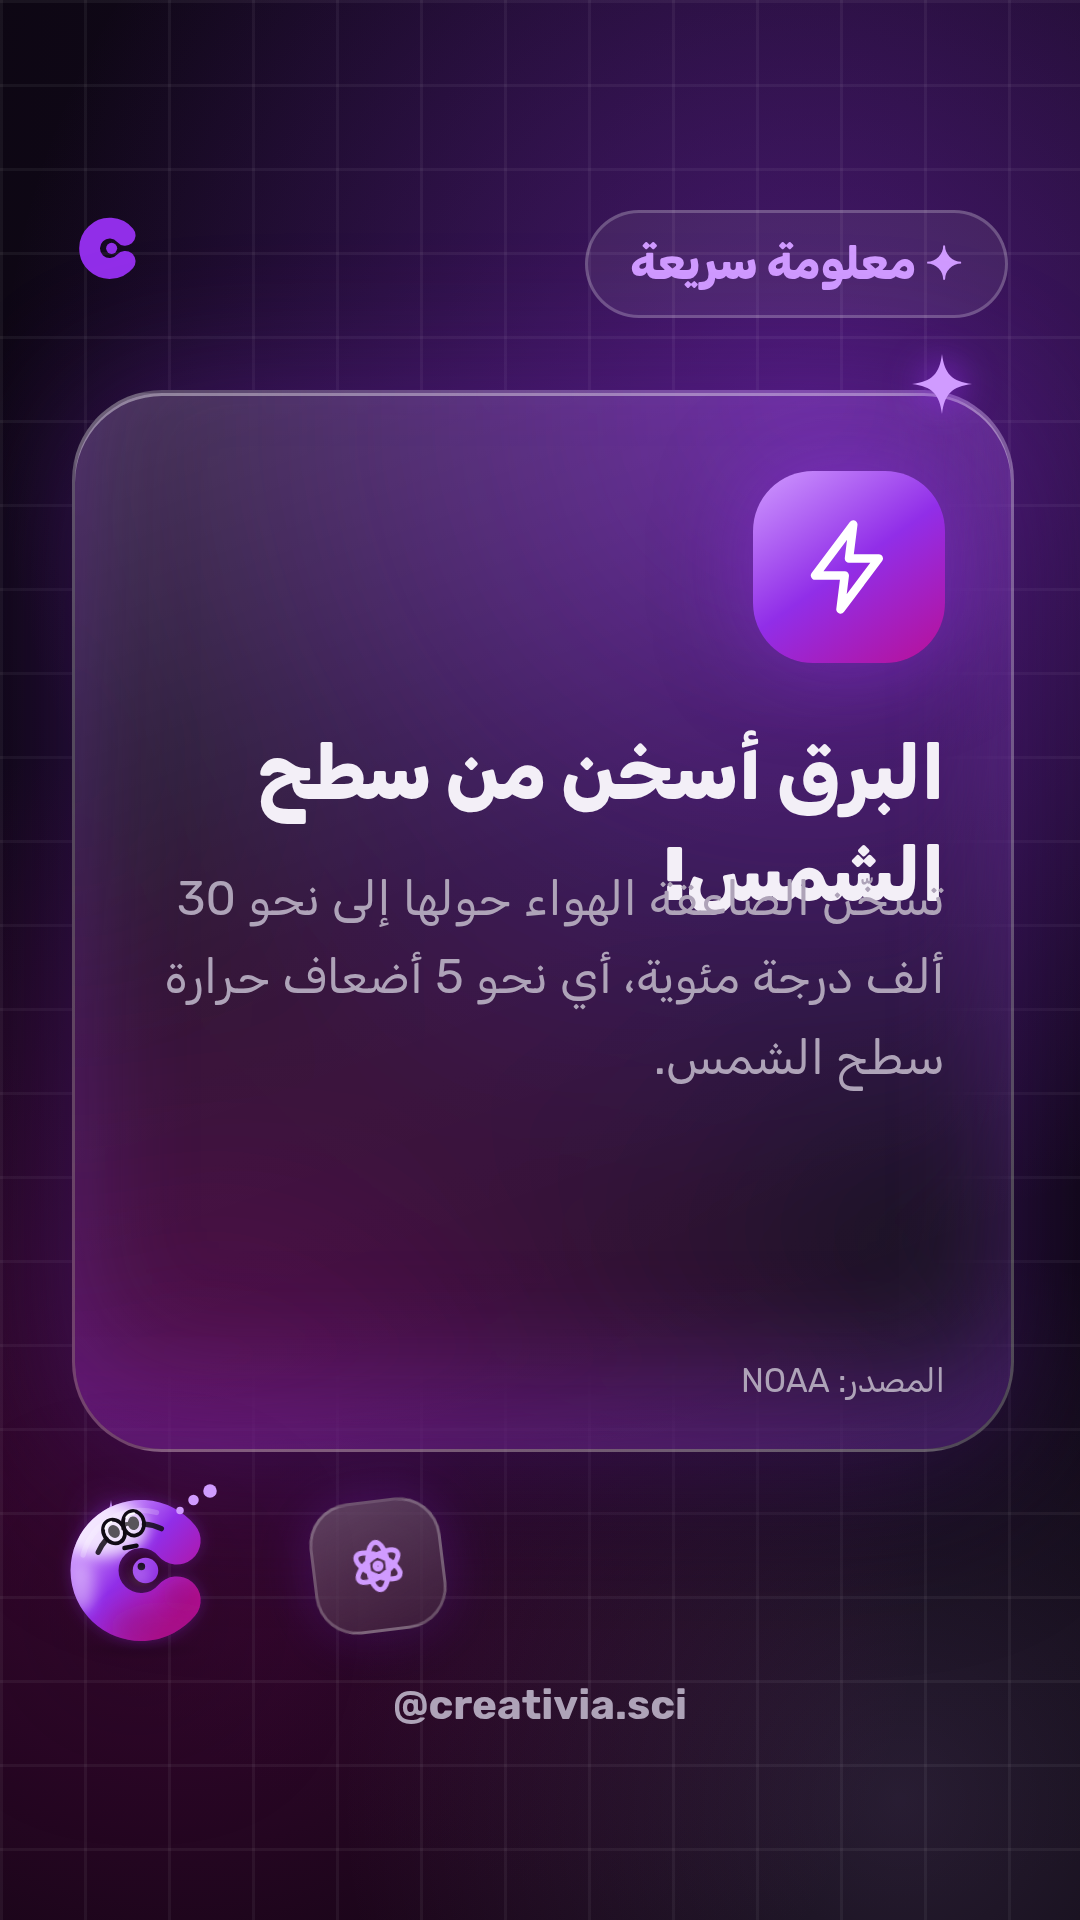
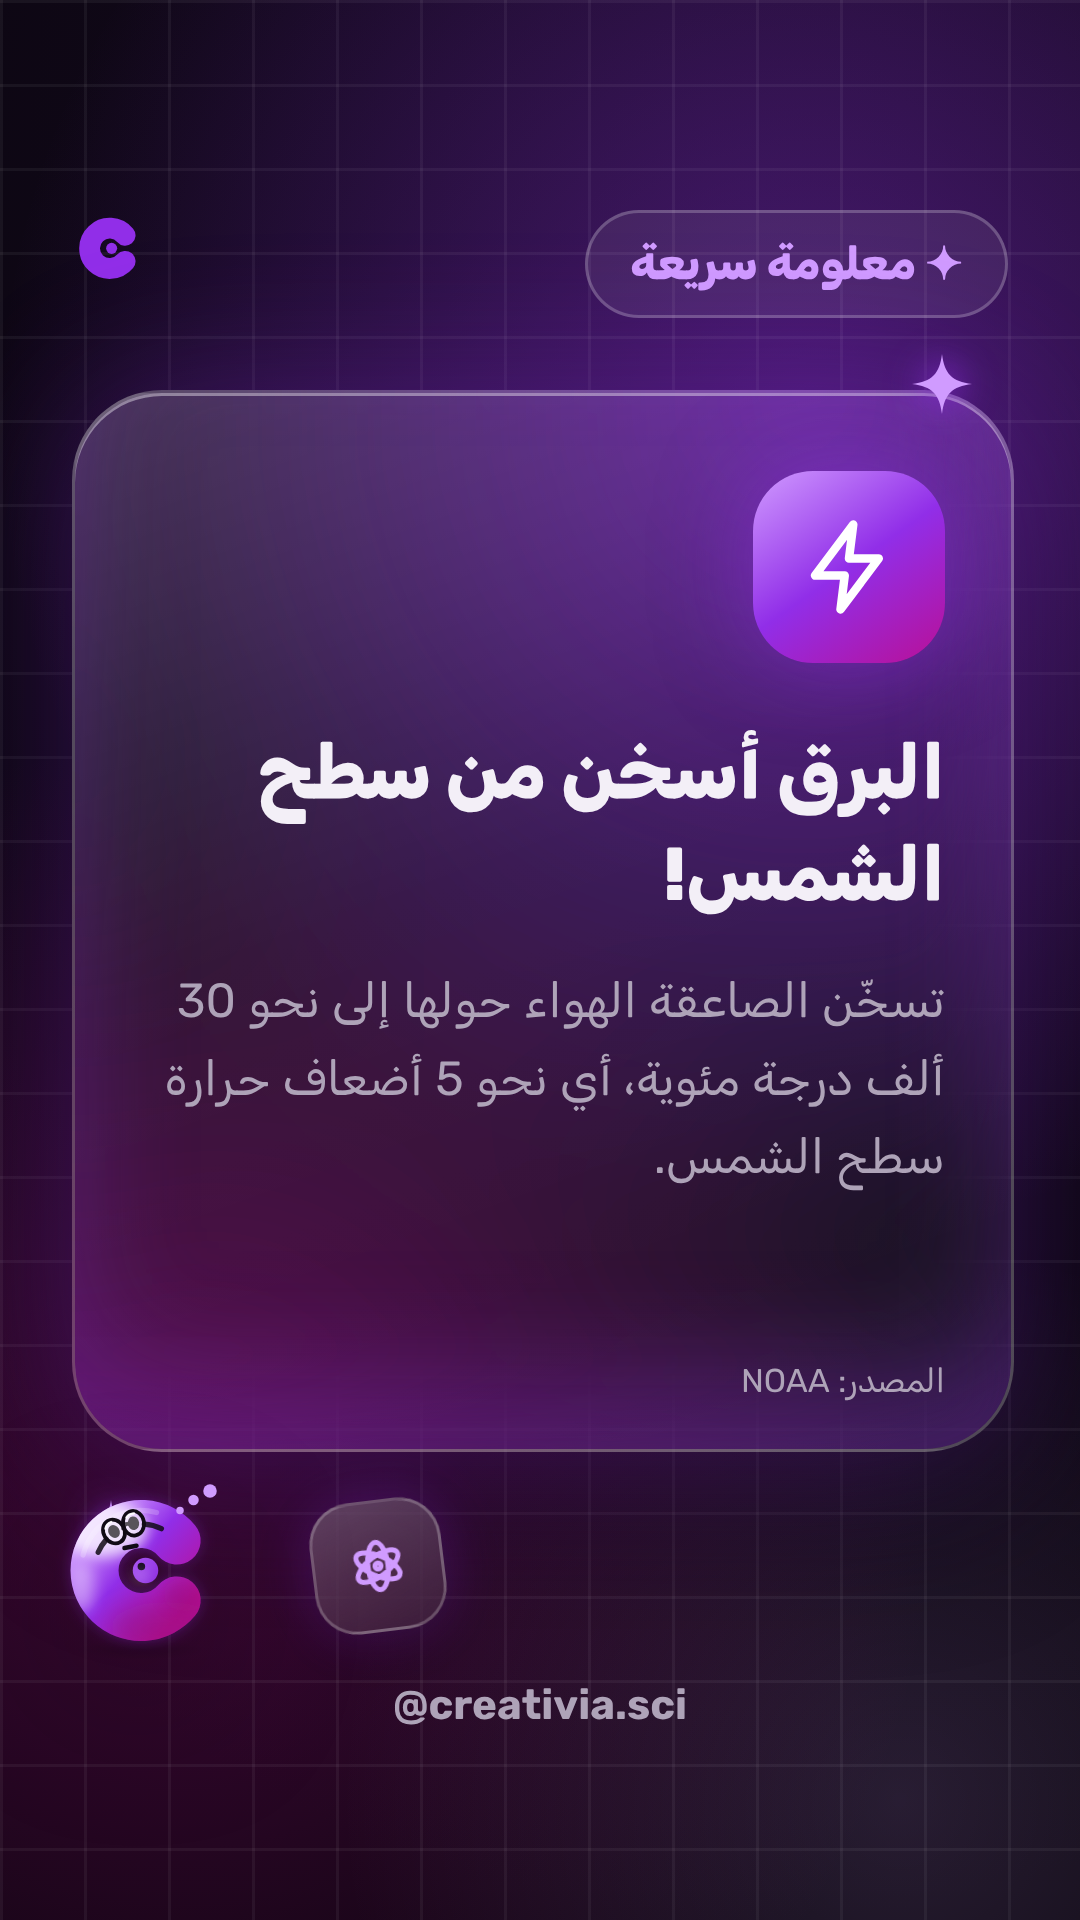
Story fact: title and body in one column (no overlap); re-render brain-energy stories
Claude-Session: https://claude.ai/code/session_01JxQUdRwBsaT7Q6E2sY5jv1

diff --git a/engine/story.js b/engine/story.js
@@ -74,8 +74,8 @@ function frame(C, body, k, noHandle) {
       `<div style="position:absolute;right:24px;top:70px;display:flex;align-items:center;gap:8px;padding:8px 14px;border-radius:999px;background:${C.glass};border:1.5px solid ${C.rim};color:${C.ink};font-size:15px;font-weight:800">✦ ${esc(f.tag || 'معلومة سريعة')}</div>`
       + glass(C, 24, 130, 312, 352, 30,
         (img ? `<img src="${img}" style="position:absolute;left:12px;right:12px;top:12px;width:288px;height:${ih}px;border-radius:20px;object-fit:cover">` : `<div style="position:absolute;right:22px;top:26px;width:64px;height:64px;border-radius:20px;background:linear-gradient(145deg,#D09BFF,#912EE8 50%,#B91097);box-shadow:0 0 30px rgba(145,46,232,0.5);display:flex;align-items:center;justify-content:center;font-size:34px;color:#100B14;font-weight:800">${ICONS[f.icon] ? icon(f.icon, '#FFFFFF', 34) : esc(f.icon || '!')}</div>`)
-        + `<div style="position:absolute;right:22px;left:22px;top:${img ? ih + 30 : 110}px;font-size:${f.size || 25}px;font-weight:800;line-height:1.35;color:${C.text}">${esc(f.title)}</div>`
-        + `<div style="position:absolute;right:22px;left:22px;top:${img ? ih + 30 : 110}px;margin-top:${(f.size || 25) * 1.35 * (f.lines || 2) + 12}px;font-size:16px;line-height:1.65;color:${C.muted}">${esc(f.body)}</div>`
+        // title and body share one column, so a title that wraps pushes the body down (never over it)
+        + `<div style="position:absolute;right:22px;left:22px;top:${img ? ih + 30 : 110}px;display:flex;flex-direction:column;gap:12px"><div style="font-size:${f.size || 25}px;font-weight:800;line-height:1.35;color:${C.text}">${esc(f.title)}</div><div style="font-size:16px;line-height:1.65;color:${C.muted}">${esc(f.body)}</div></div>`
         + (f.credit ? `<div style="position:absolute;right:22px;left:22px;bottom:16px;font-size:11px;color:${C.muted}">${esc(f.credit)}</div>` : ''))
       + star(C, 304, 118, 20) + star(C, 30, 500, 14)
       + (cat ? chip(C, catIcon(cat), cat, 'right:26px;top:500px', 3) : '') + tile(C, f.icon2 || 'flask', 104, 500, -7)
